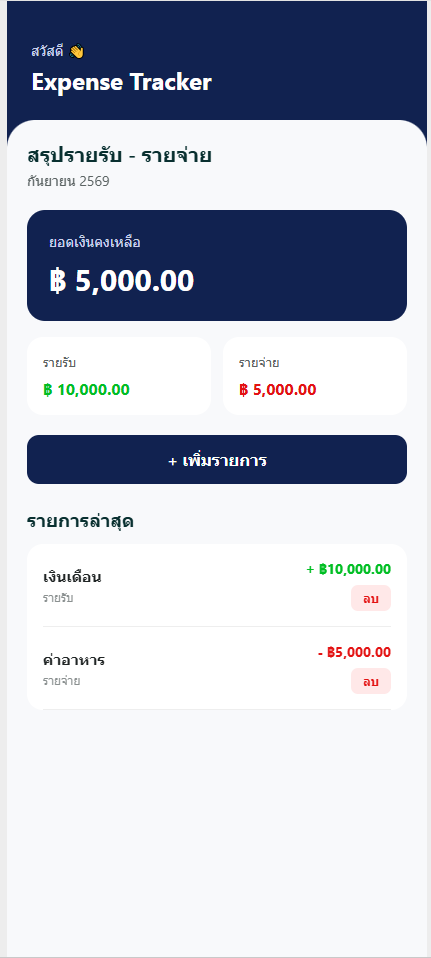
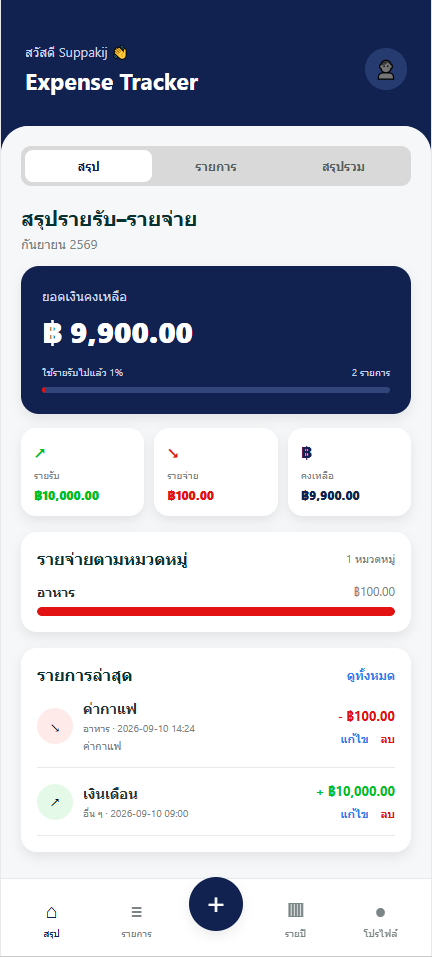
Update README with application screenshots

diff --git a/README.md b/README.md
@@ -1,22 +1,31 @@
 # Expense Tracker
 
-A mobile expense tracker adapted from my previous Mobile Wallet design in Figma. It demonstrates a complete multi-screen flow built with React Native, Expo, and TypeScript.
+A mobile expense tracker adapted from my previous Mobile Wallet design in Figma.  
+The project demonstrates a complete multi-screen application built with React Native, Expo, and TypeScript.
 
-## Screenshot
+## Screenshots
 
-<img src="screenshots/dashboard.png" width="350" alt="Expense Tracker dashboard">
+| Sign In | Dashboard |
+| --- | --- |
+| <img src="screenshots/login.png" width="300" alt="Sign in screen"> | <img src="screenshots/dashboard.png" width="300" alt="Dashboard screen"> |
+
+| Transaction History | Yearly Summary | Profile |
+| --- | --- | --- |
+| <img src="screenshots/history.png" width="250" alt="Transaction history"> | <img src="screenshots/year-summary.png" width="250" alt="Yearly summary"> | <img src="screenshots/profile.png" width="250" alt="Profile screen"> |
 
 ## Features
 
+- Sign in, sign up, edit profile, and sign out
+- Persistent local user session
 - Add income and expense transactions
-- Edit transactions with category, date, time, and notes
-- Automatically calculate total income, expenses, and balance
-- Dashboard with recent transactions and spending by category
+- Edit and delete transactions
+- Select transaction type and category
+- Record date, time, and notes
+- Automatically calculate income, expenses, and balance
+- Dashboard with spending progress and category breakdown
 - Search and filter transaction history
-- Delete transactions
-- Save data locally using AsyncStorage
-- Sign-in, sign-up, editable profile, and persistent local session
-- Yearly income and expense summary with a monthly chart
+- Yearly summary with a monthly bar chart
+- Save transaction data locally using AsyncStorage
 - Responsive mobile-style interface
 
 ## Technologies Used
@@ -25,6 +34,7 @@ A mobile expense tracker adapted from my previous Mobile Wallet design in Figma.
 - Expo
 - TypeScript
 - AsyncStorage
+- React Native Web
 - Figma
 
 ## Design
@@ -34,6 +44,13 @@ The user interface was adapted from my previous Mobile Wallet design.
 [Figma Design](https://www.figma.com/design/egtWKRnqzhsr9oyaKHvPq6/Application-mobile-Wallet?node-id=0-1)
 
 ## Installation
+
+Clone the repository:
+
+```bash
+git clone https://github.com/Neoman99999/expense-tracker.git
+cd expense-tracker
+```
 
 Install the dependencies:
 
@@ -47,7 +64,7 @@ Run the project on the web:
 npm run web
 ```
 
-Demo account:
+## Demo Account
 
 ```text
 Email: demo@email.com
@@ -56,4 +73,4 @@ Password: 123456
 
 ## Project Purpose
 
-This project was created to demonstrate my ability to design and develop a functional mobile application using React Native, TypeScript, and Figma.
+This project was created to demonstrate my ability to design and develop a functional mobile application using React Native, Expo, TypeScript, local data persistence, and Figma.
